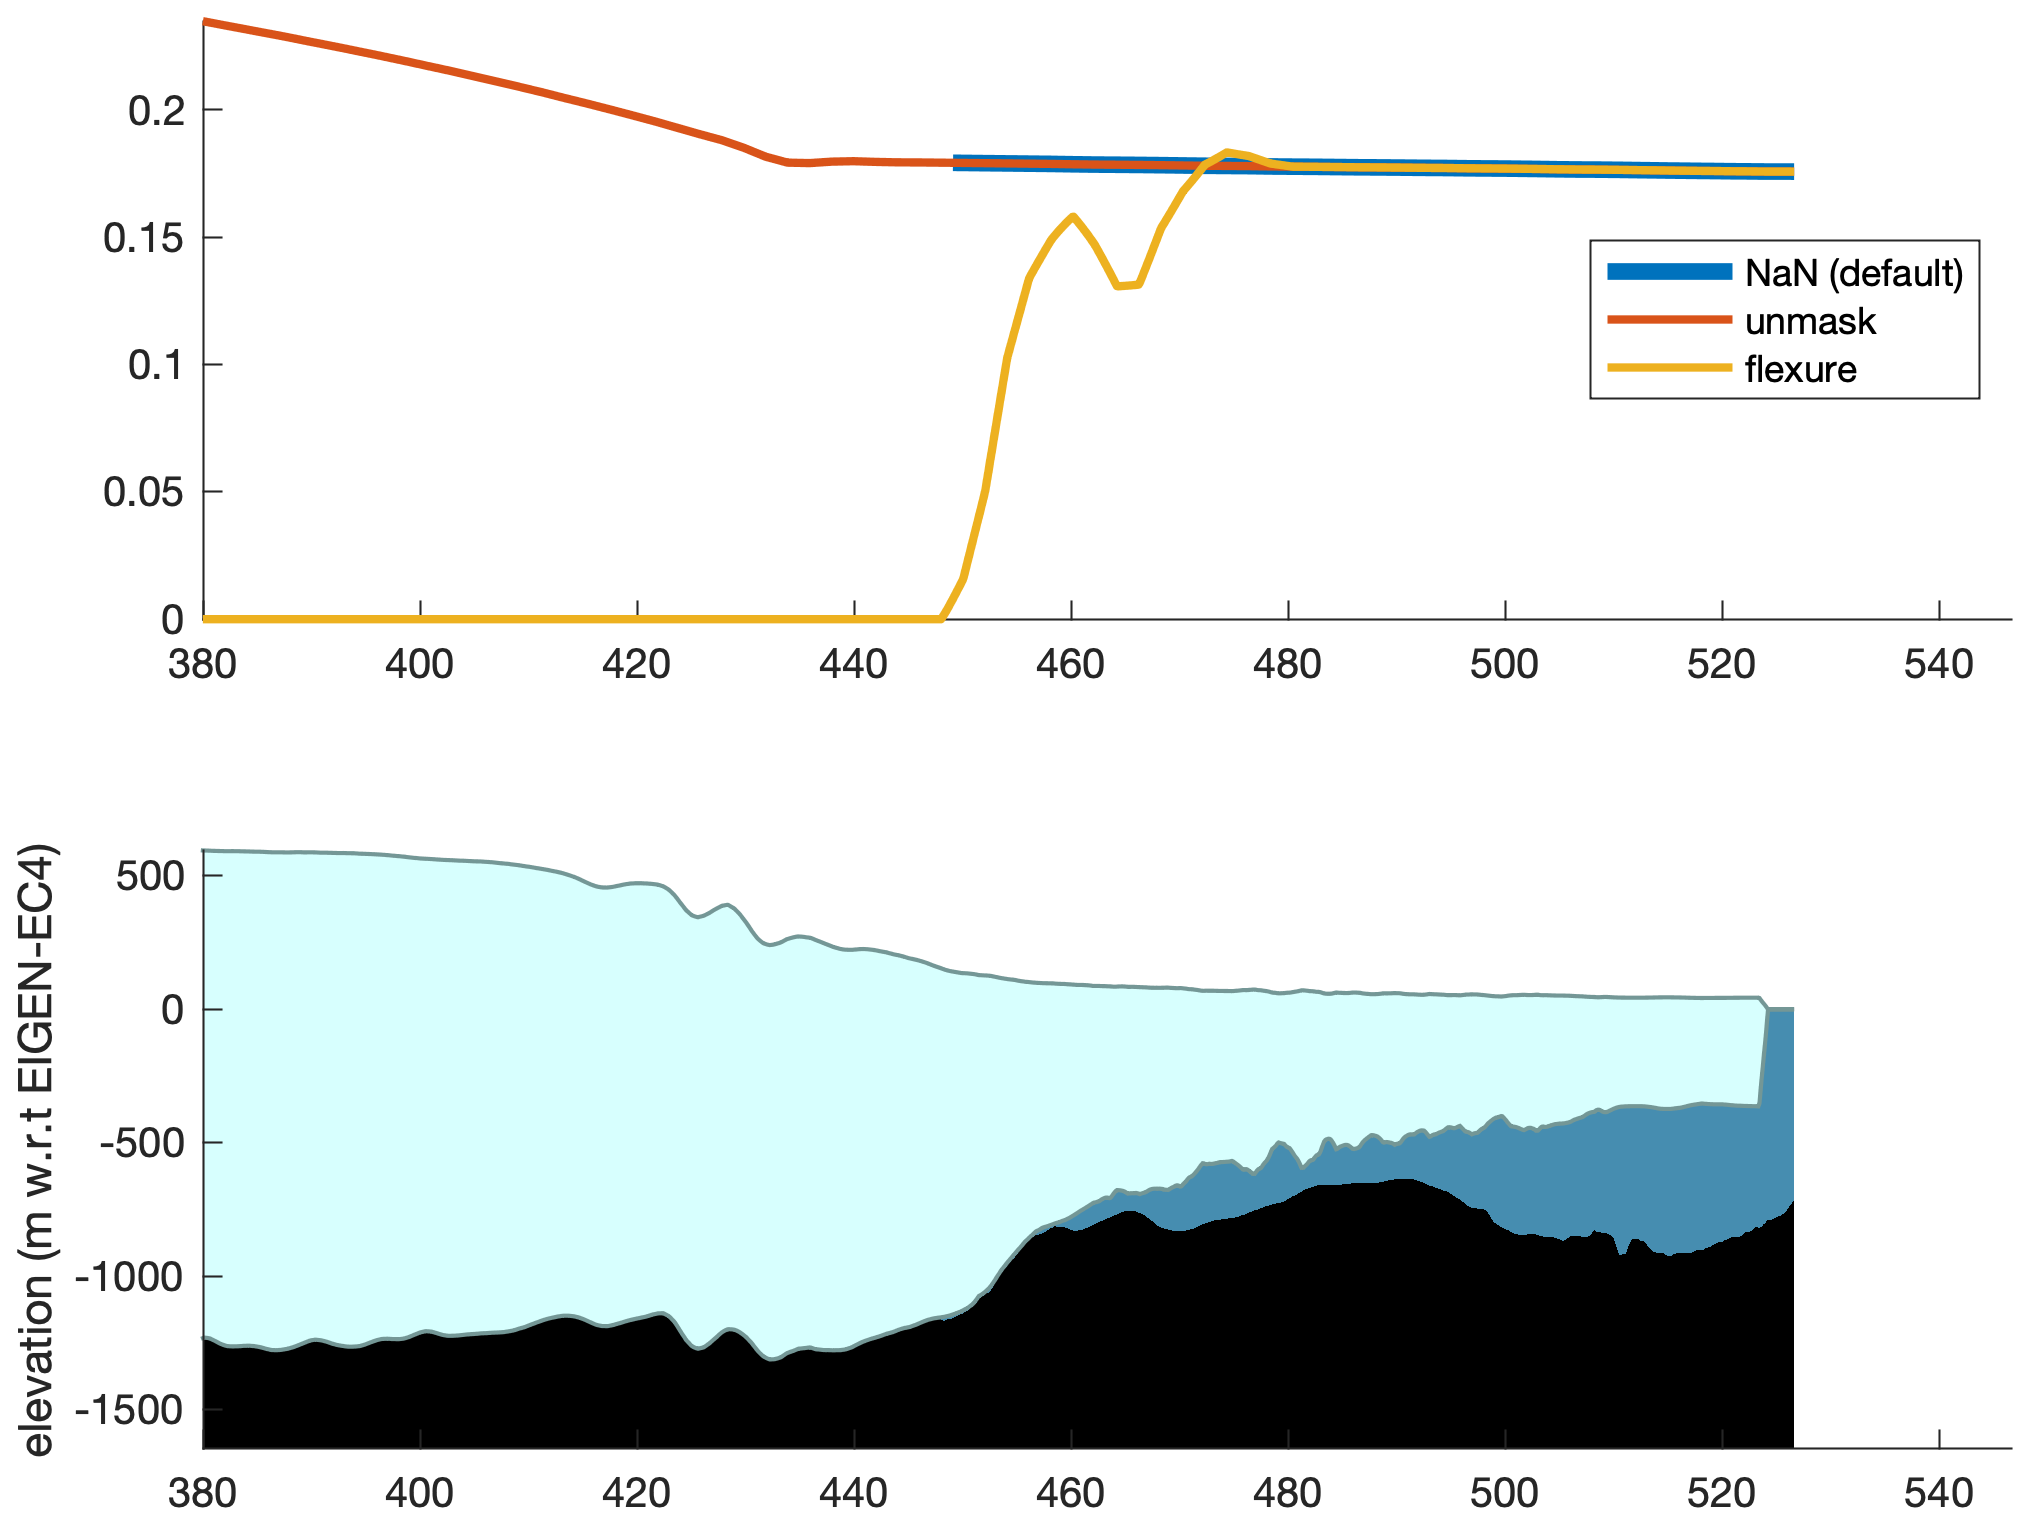
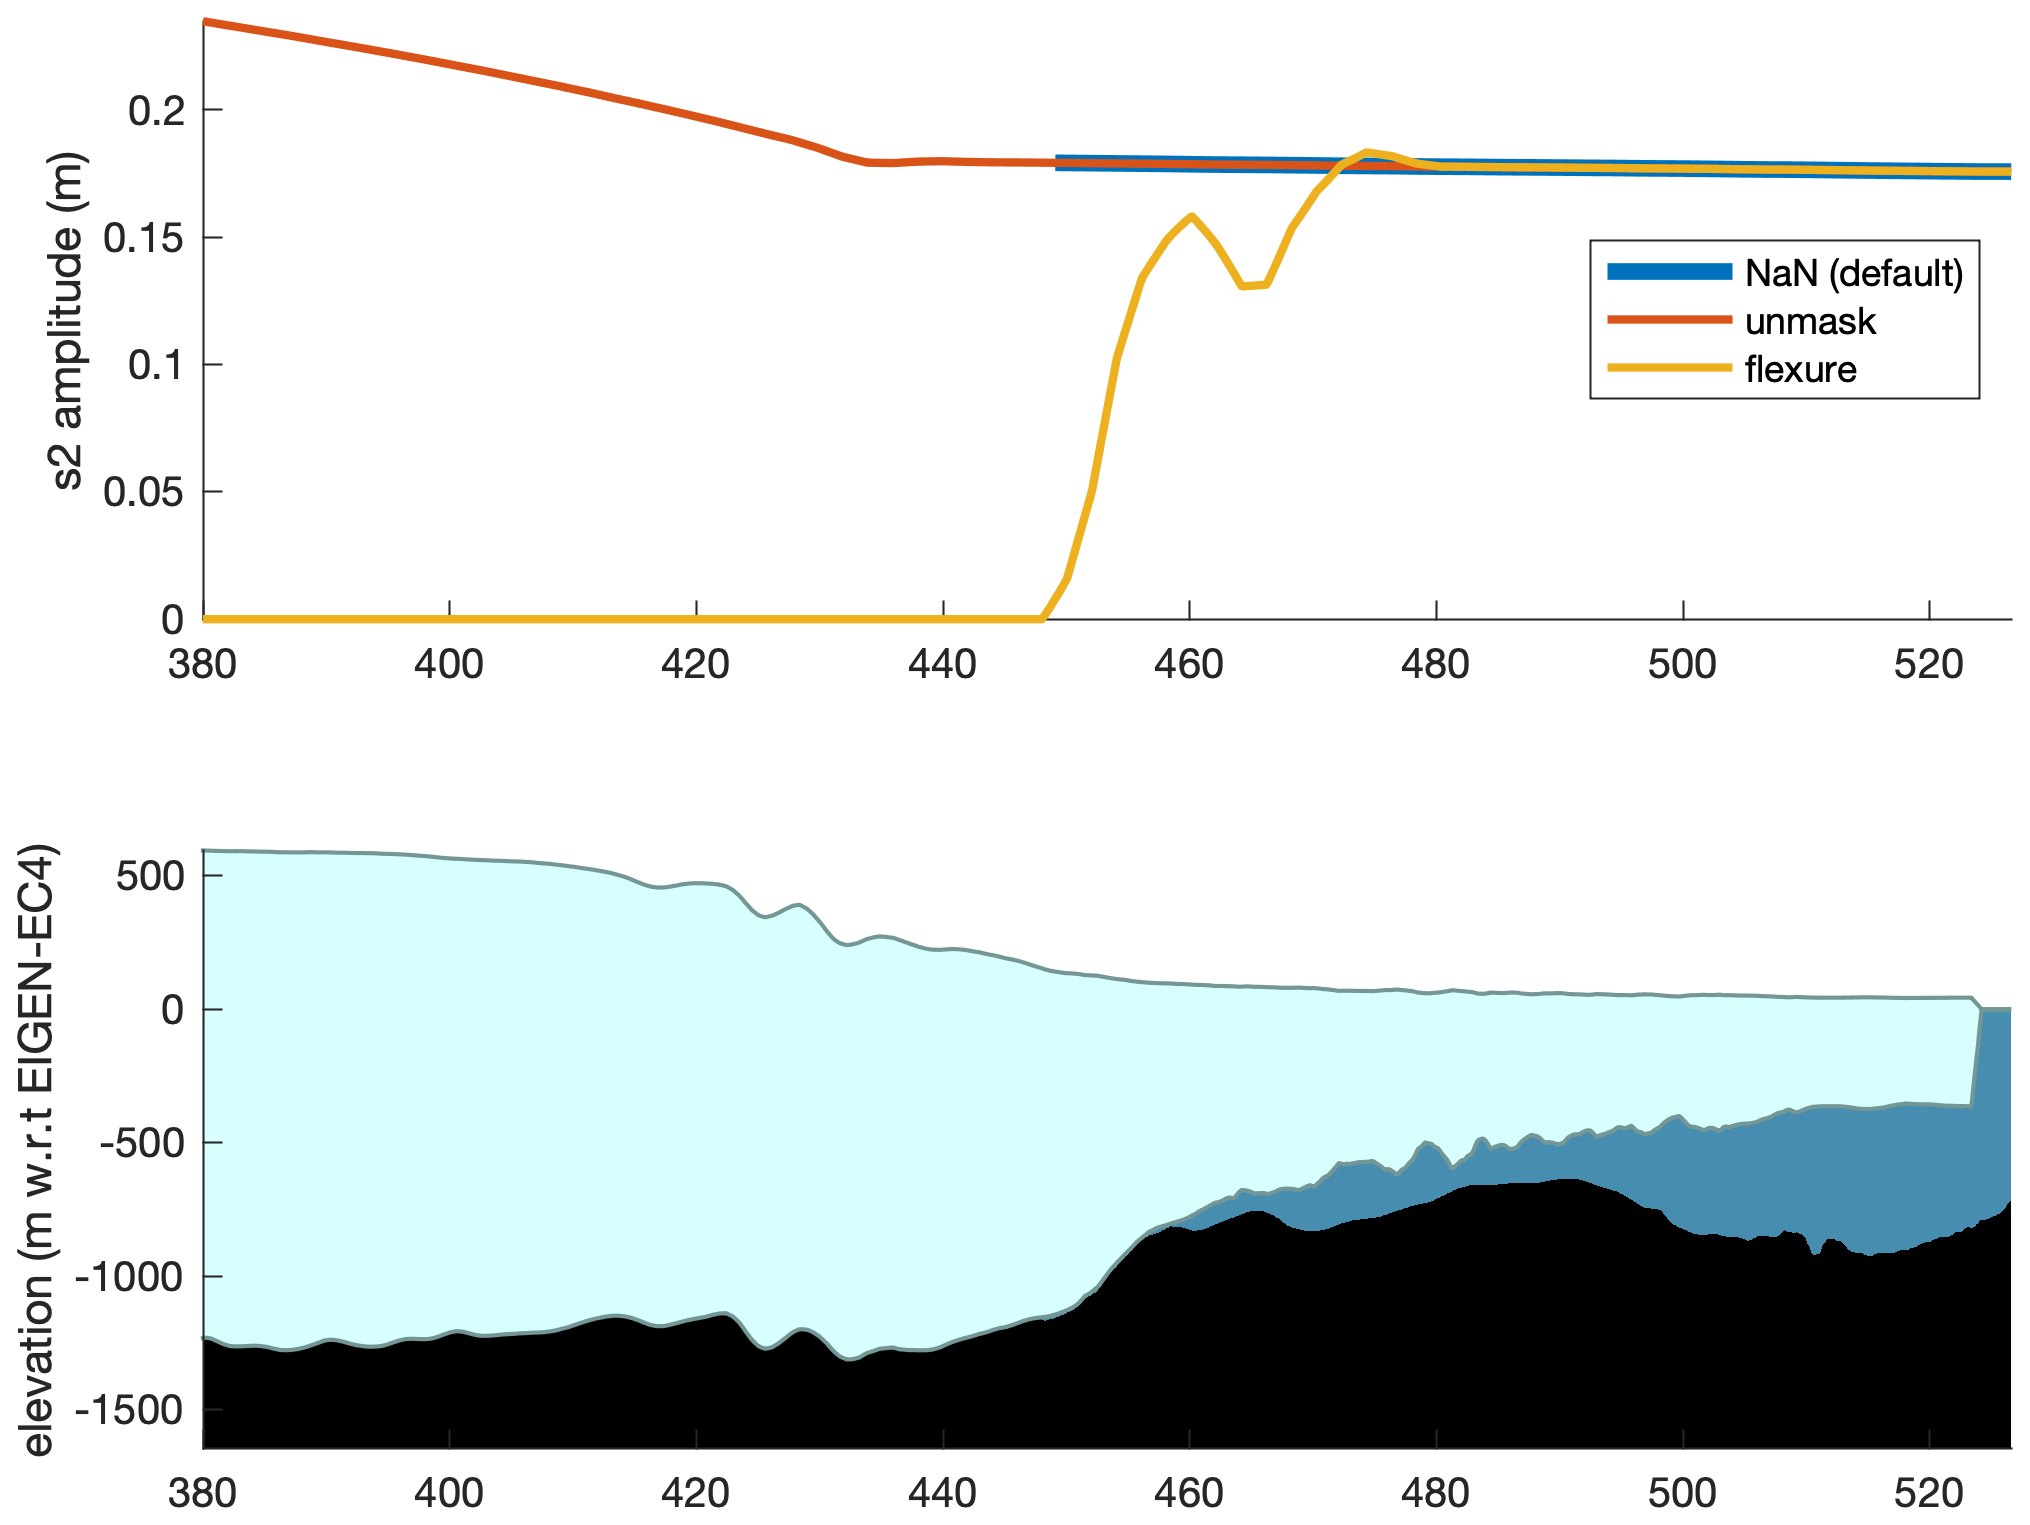
updates

diff --git a/doc/tmd_interp_documentation.m b/doc/tmd_interp_documentation.m
@@ -176,13 +176,14 @@ plot(di,s2_unmask,'linewidth',2)
 plot(di,s2_flexure,'linewidth',2)
 box off
 axis tight
-xlim([380 max(di)+20])
+ylabel 's2 amplitude (m)'
+xlim([380 max(di)])
 legend('NaN (default)','unmask','flexure','location','best')
 
 % Plot a BedMachine profile for context: 
 subplot(2,1,2)
 bedmachine_profile(lati,loni,'horiz',di)
-xlim([380 max(di)+20])
+xlim([380 max(di)])
 
 %%
 % Above, you see that by default |tmd_interp| returns the full amplitude along 

diff --git a/doc/tmd_interp_documentation.md b/doc/tmd_interp_documentation.md
@@ -135,8 +135,8 @@ For the updated CATS2008 model, we've attempted to model the ice shelf
 using a simple 1d linear elastic forward model applied to BedMachine ice 
 thickness, with an elastic modulus E=4.8 Gpa and Poisson's ratio nu=0.4. 
 
-This example uses Antarctic Mapping Tools with the BedMachine and
-ITS_LIVE plugins. (Sorry about all of the extra dependencies, but I think
+This example uses [Antarctic Mapping Tools](https://github.com/chadagreene/Antarctic-Mapping-Tools) with the [BedMachine](https://github.com/chadagreene/BedMachine) and
+[ITS_LIVE](https://github.com/chadagreene/ITS_LIVE) plugins. (Sorry about all of the extra dependencies, but I think
 the context is important to aid in understanding, even if it's not worth
 downloading all the extras to replicate the example on your own.) 
 
@@ -167,13 +167,14 @@ plot(di,s2_unmask,'linewidth',2)
 plot(di,s2_flexure,'linewidth',2)
 box off
 axis tight
-xlim([380 max(di)+20])
+ylabel 's2 amplitude (m)'
+xlim([380 max(di)])
 legend('NaN (default)','unmask','flexure','location','best')
 
 % Plot a BedMachine profile for context: 
 subplot(2,1,2)
 bedmachine_profile(lati,loni,'horiz',di)
-xlim([380 max(di)+20])
+xlim([380 max(di)])
 ```
 <img src="markdown_figures/tmd_interp_documentation_03_hires.png" width="500"/>
 
@@ -196,7 +197,6 @@ to a bathymetric pinning point in the middle of the ice shelf. You may
 also notice the flexure model goes just a few percent above neutral near
 the hydrostatic line, and this represents true ice behavior. 
 
-
 ## Author Info 
-The `tmd_data` function and its documentation were written by Chad A.
+The `tmd_interp` function and its documentation were written by Chad A.
 Greene, June 2022. 
